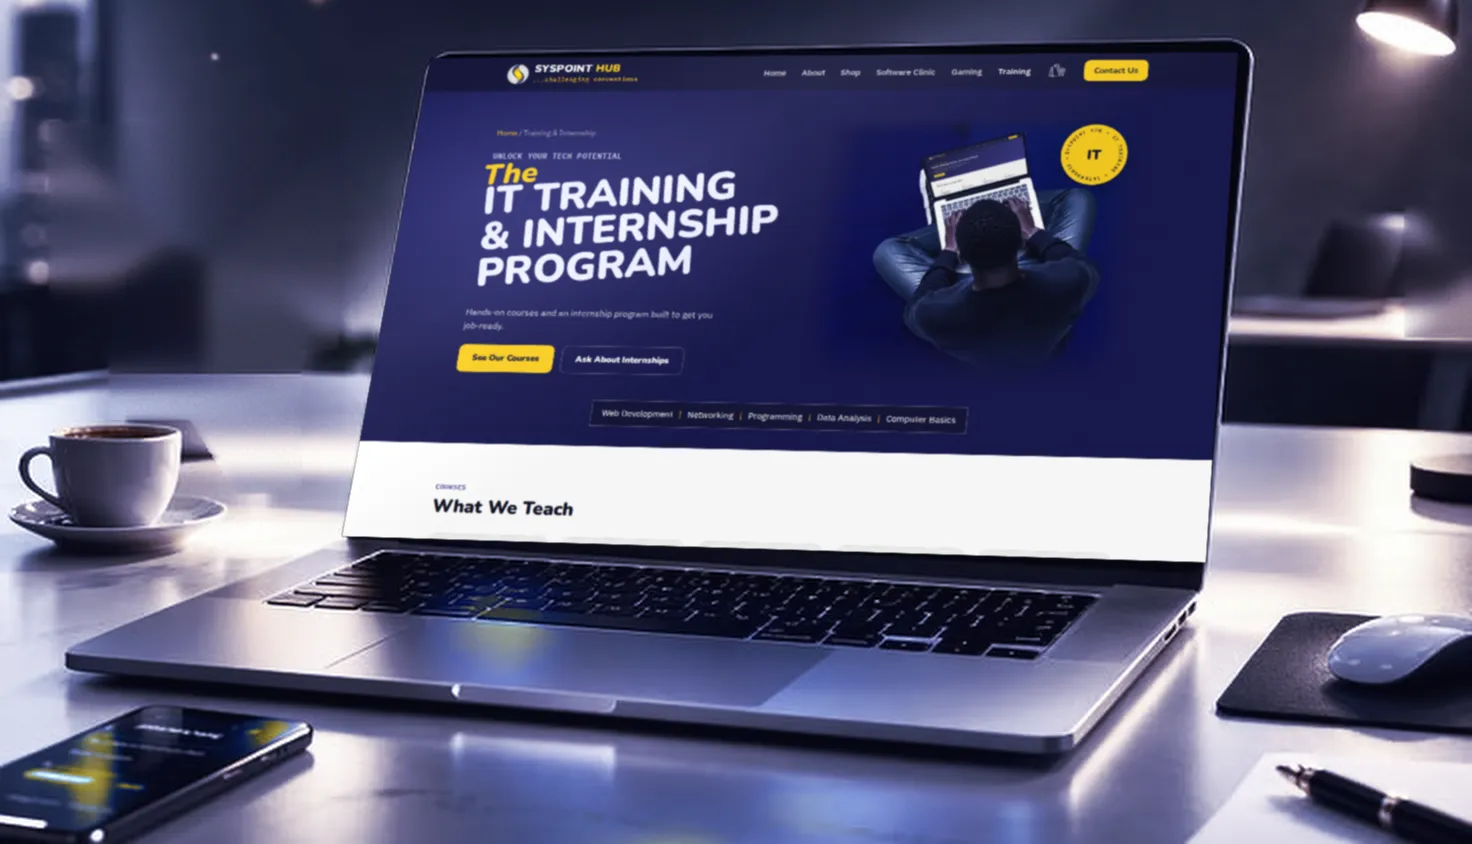
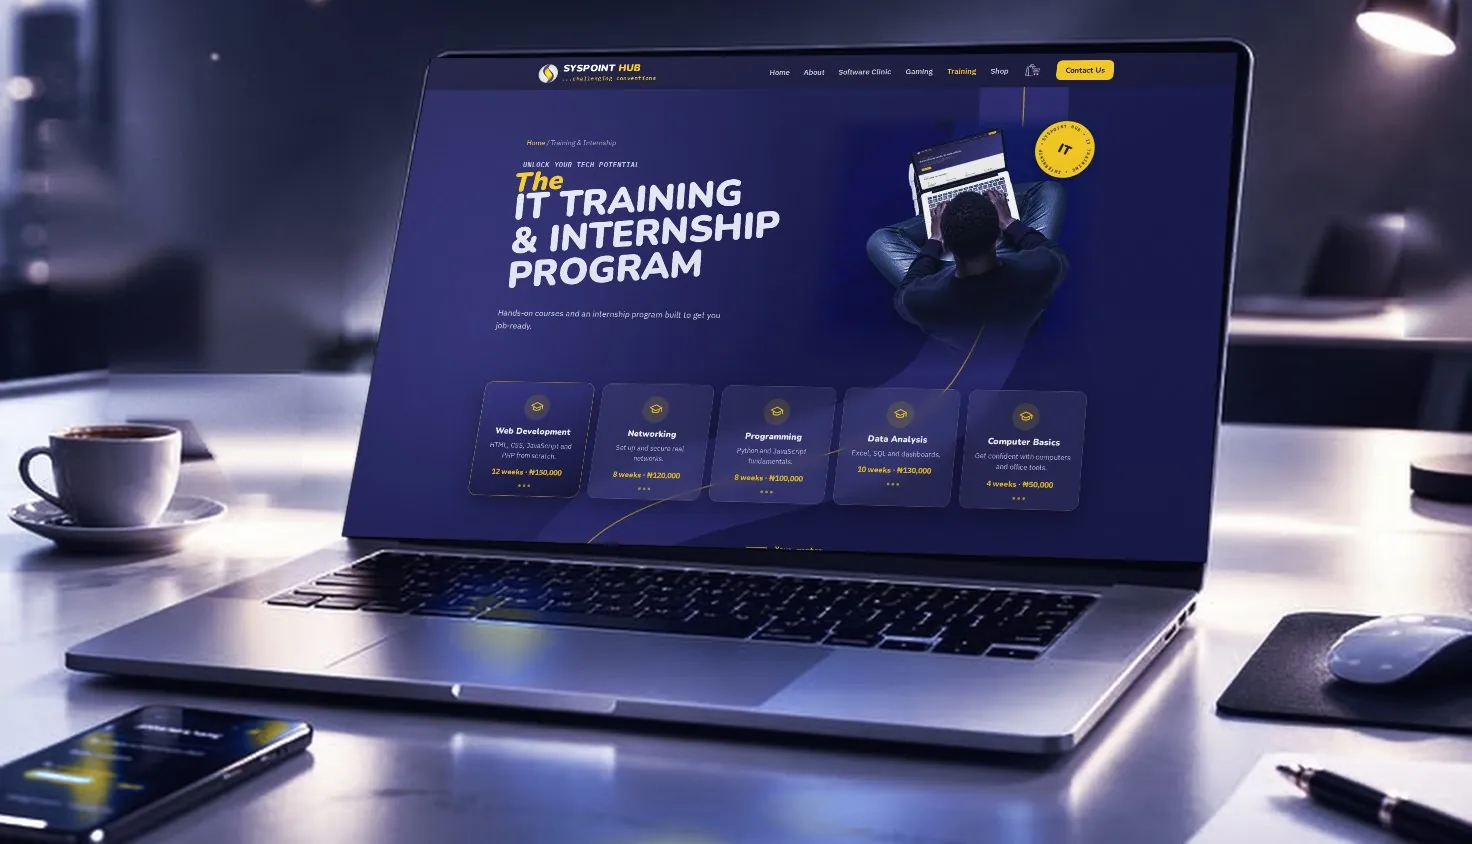
Complete laptop in the shop hero; five fresh screens on the home laptop
- Shop hero: the complete laptop from the home desk photo, cut out along
  its outline (lid, hinge and full base), with the wave wallpaper from the
  original shop photo on its screen — replaces the cropped two-laptop shot.
- About: the Gadget Store arc uses the same laptop.
- Home hero: the laptop now cycles five real screenshots, 5s each —
  Gaming, Software Clinic, Training, Shop, About — taken from the current
  pages and fitted to the screen with a perspective warp (the Shop screen
  previously showed the old light shop page). New Website fields for the
  Software Clinic and About screens.

Claude-Session: https://claude.ai/code/session_01V4AdRnaABNZnaBTZbbiHrp

Changed region(s): [[0.2188, 0.0616, 0.8438, 0.6777], [0.3125, 0.154, 0.5312, 0.3389], [0.3438, 0.0616, 0.4375, 0.1232]]

diff --git a/public/assets/css/style.css b/public/assets/css/style.css
@@ -295,16 +295,14 @@ main:has(.home-hero) + .site-footer, main:has(.training-hero) + .site-footer { m
 .home-hero-head p { color: rgba(255, 255, 255, 0.78); max-width: 62ch; margin: 0 auto; }
 
 .home-hero-stage { position: relative; max-width: 1120px; margin: 24px auto 0; padding: 0 12px; }
-/* Cross-fade: Gaming is the base layer; Shop then Training fade in over it on a 15s loop. */
-.home-screen-shop, .home-screen-training { position: absolute; inset: 0 12px; opacity: 0; animation: home-screen-cycle 15s infinite; }
-.home-screen-shop { animation-delay: 5s; }
-.home-screen-training { animation-delay: 10s; }
+/* Cross-fade: Gaming is the base layer; the other four fade in over it in turn, 5s each, on a 25s loop. */
+.home-screen-cycle { position: absolute; inset: 0 12px; opacity: 0; animation: home-screen-cycle 25s infinite; animation-delay: var(--d, 5s); }
 @keyframes home-screen-cycle {
     0% { opacity: 0; }
-    6.67%, 33.33% { opacity: 1; }
-    40%, 100% { opacity: 0; }
+    4%, 20% { opacity: 1; }
+    24%, 100% { opacity: 0; }
 }
-@media (prefers-reduced-motion: reduce) { .home-screen-shop, .home-screen-training { animation: none; } }
+@media (prefers-reduced-motion: reduce) { .home-screen-cycle { animation: none; } }
 .home-hero-stage img {
     width: 100%;
     height: auto;

diff --git a/app/site_content.php b/app/site_content.php
@@ -74,8 +74,10 @@ function site_content(): array
             'home.hero_title_highlight' => $f('Hero headline (gold)', 'In One Place'),
             'home.hero_subtitle' => $f('Hero text', 'Computers and accessories, a software clinic that builds what your business needs, a gaming lounge with a VIP and common room, and a training centre turning out interns ready to work.', 'textarea'),
             'home.screen_gaming' => $f('Laptop screen 1 (gaming)', 'assets/img/home/hero-desk-gaming.jpg', 'image', 'The hero laptop fades between these three pictures. Use the same size and framing (1472 × 844).'),
-            'home.screen_shop' => $f('Laptop screen 2 (shop)', 'assets/img/home/hero-desk-shop.jpg', 'image'),
+            'home.screen_shop' => $f('Laptop screen 4 (shop)', 'assets/img/home/hero-desk-shop.jpg', 'image'),
+            'home.screen_clinic' => $f('Laptop screen 2 (software clinic)', 'assets/img/home/hero-desk-clinic.jpg', 'image'),
             'home.screen_training' => $f('Laptop screen 3 (training)', 'assets/img/home/hero-desk-training.jpg', 'image'),
+            'home.screen_about' => $f('Laptop screen 5 (about)', 'assets/img/home/hero-desk-about.jpg', 'image'),
             'home.svc1_title' => $f('Service card 1 — title', 'Computers & Gadgets'),
             'home.svc1_text' => $f('Service card 1 — text', 'Genuine laptops & accessories'),
             'home.svc2_title' => $f('Service card 2 — title', 'Software Clinic'),
@@ -119,7 +121,7 @@ function site_content(): array
             'about.intro' => $f('Hero — intro', 'Since 2010, Syspoint has grown from a hardware repair clinic into a complete tech partner — software, virtual platforms, training, and a home for gamers in Abuja.', 'textarea'),
             'about.btn_primary' => $f('Hero — main button', 'Get in Touch'),
             'about.btn_secondary' => $f('Hero — second button', 'Our Story'),
-            'about.photo_shop' => $f('Hero photo — Gadget Store', 'assets/img/shop/hero-laptops.jpg', 'image'),
+            'about.photo_shop' => $f('Hero photo — Gadget Store', 'assets/img/shop/about-laptop.jpg', 'image'),
             'about.photo_clinic' => $f('Hero photo — Software Clinic', 'assets/img/clinic/hero-photo.jpg', 'image'),
             'about.photo_gaming' => $f('Hero photo — Gaming', 'assets/img/gaming/vr.jpg', 'image'),
             'about.photo_training' => $f('Hero photo — Training', 'assets/img/training/hero-student.jpg', 'image'),
@@ -138,7 +140,7 @@ function site_content(): array
             'shop.hero_title_prefix' => $f('Hero headline (white)', 'Latest Tech', 'textarea', 'Each line is a line of the headline; the gold script word follows the last line.'),
             'shop.hero_title_highlight' => $f('Hero headline (gold script word)', 'Gadgets'),
             'shop.hero_subtitle' => $f('Hero text', 'Genuine gadgets and accessories, in stock now, with secure checkout and fast local delivery.', 'textarea'),
-            'shop.hero_image' => $f('Hero picture', 'assets/img/shop/hero-laptops-cutout.png', 'image', 'Best as a product photo with a transparent background (PNG), about 720 × 440.'),
+            'shop.hero_image' => $f('Hero picture', 'assets/img/shop/hero-laptop.png', 'image', 'Best as a product photo with a transparent background (PNG), about 720 × 440.'),
             'shop.btn_primary' => $f('Hero main button', 'Shop Now'),
             'shop.btn_secondary' => $f('Hero second button', 'Visit the Store'),
             'shop.repair_title' => $f('Category cards — repairs card title', 'Repairs & Upgrades'),

diff --git a/app/views/pages/home.php b/app/views/pages/home.php
@@ -43,11 +43,11 @@ $services = [
         <p><?= e(site('home.hero_subtitle')) ?></p>
     </div>
 
-    <!-- The laptop cycles through our page heroes: Gaming, then Shop, then Training. -->
+    <!-- The laptop cycles through our page heroes, 5s each: Gaming, Software Clinic, Training, Shop, About. -->
     <div class="home-hero-stage">
-        <?= site_picture('home.screen_gaming', 'A laptop on a desk showing Syspoint Hub\'s gaming, shop and training pages in turn', ['width' => 1472, 'height' => 844, 'fetchpriority' => 'high'], 'home-screen') ?>
-        <?php foreach (['shop', 'training'] as $screen): ?>
-            <?= str_replace('<picture class=', '<picture aria-hidden="true" class=', site_picture('home.screen_' . $screen, '', ['width' => 1472, 'height' => 844, 'loading' => 'lazy'], 'home-screen home-screen-' . $screen)) ?>
+        <?= site_picture('home.screen_gaming', 'A laptop on a desk showing Syspoint Hub\'s pages in turn: gaming, software clinic, training, shop and about', ['width' => 1472, 'height' => 844, 'fetchpriority' => 'high'], 'home-screen') ?>
+        <?php foreach (['clinic', 'training', 'shop', 'about'] as $i => $screen): ?>
+            <?= str_replace('<picture class=', '<picture aria-hidden="true" style="--d:' . (($i + 1) * 5) . 's" class=', site_picture('home.screen_' . $screen, '', ['width' => 1472, 'height' => 844, 'loading' => 'lazy'], 'home-screen home-screen-cycle')) ?>
         <?php endforeach; ?>
     </div>
 

diff --git a/app/views/pages/shop.php b/app/views/pages/shop.php
@@ -62,7 +62,7 @@ $promoHref = preg_match('#^https?://#i', $promoUrl) ? $promoUrl : path(ltrim($pr
             <span class="shop-hero-ring" aria-hidden="true"></span>
             <span class="shop-hero-podium" aria-hidden="true"></span>
             <div class="shop-hero-product">
-                <?= site_picture('shop.hero_image', 'Two slim laptops, one open showing a colourful screen', ['width' => 724, 'height' => 438, 'fetchpriority' => 'high']) ?>
+                <?= site_picture('shop.hero_image', 'A slim laptop with a colourful wave wallpaper on its screen', ['width' => 900, 'height' => 541, 'fetchpriority' => 'high']) ?>
             </div>
         </div>
     </div>

diff --git a/README.md b/README.md
@@ -336,8 +336,13 @@ images in `public/assets/img/shop/products/`. Run it only to preview
 the shop; clear them later with `DELETE FROM products WHERE is_demo = 1`.
 The images were cut from a reference mockup, so they're low resolution
 (~100px source, upscaled) — replace with real product photos before
-launch. The shop hero photo (`public/assets/img/shop/hero-laptops.*`)
-came from the same mockup with its "25% OFF" badge painted out.
+launch. The shop hero laptop (`public/assets/img/shop/hero-laptop.png`) is
+the complete laptop from the home-page desk photo, cut out, with the wave
+wallpaper from the original shop photo (`hero-laptops.*`) on its screen.
+The home hero's five laptop screens (`public/assets/img/home/hero-desk-*`)
+are real screenshots of the Gaming, Software Clinic, Training, Shop and
+About pages fitted to that laptop's screen — re-shoot them after a big
+redesign so the home page stays current.
 The same file also adds gadget samples cut from the shop design reference
 and recoloured to the brand indigo: Audio, Smartwatches, Phones and Gaming
 categories (with their card pictures; Accessories gets the power bank if it
